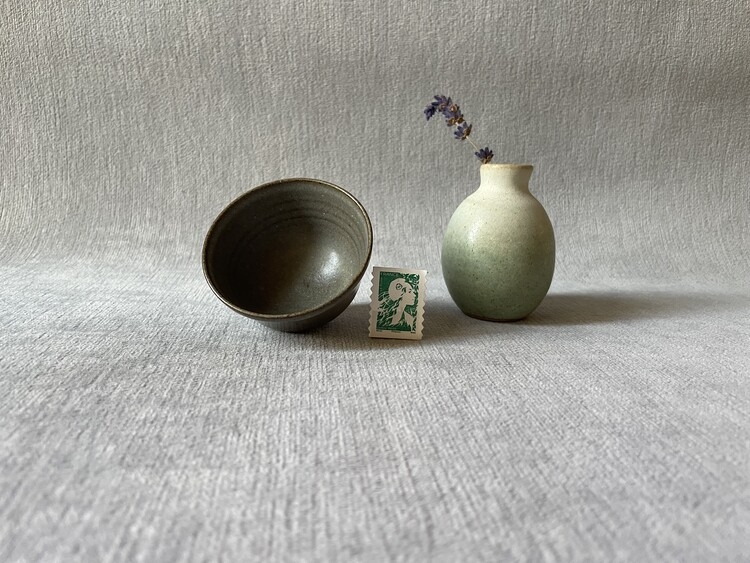
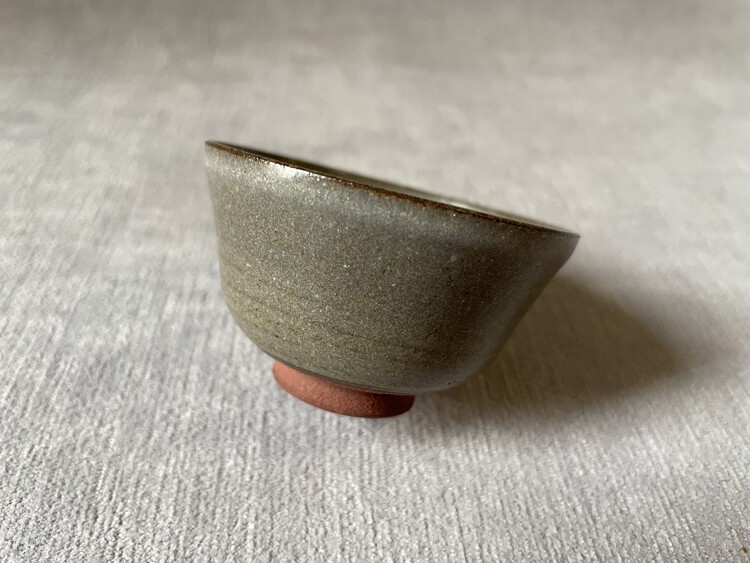
modifier manon tasse photos

diff --git a/ressources/products/manontasB19_cha-bei-petit-bol-a-the.md b/ressources/products/manontasB19_cha-bei-petit-bol-a-the.md
@@ -1,32 +1,34 @@
 ---
 id: manontasB19
 name:
-    fr: 茶杯 - CháBēi
-    en: 茶杯 - CháBēi
+  fr: 茶杯 - CháBēi
+  en: 茶杯 - CháBēi
 mini_descr:
-    fr: petit bol à thé réalisé par Manon Clouzeau
-    en: small tea bowl made by Manon Clouzeau
+  fr: petit bol à thé réalisé par Manon Clouzeau
+  en: small tea bowl made by Manon Clouzeau
 tags: ['manon-clouzeau']
 description: 
-    fr: >
+  fr: >
       茶杯 - CháBēi en grès, cuisson à 1250°C. Pièce unique.
-    en: >
+  en: >
       茶杯 - Stoneware tea cup, fired at 1250°C. Unique piece.
 photos:
-    - manon_tasse_B19-a.jpg
-    - manon_tasse_B19-b.jpg
+  - manon_tasse_B19-a.jpg
+  - manon_tasse_B19-b.jpg
+  - manon_tasse_B19-c.jpg
+  - manon_tasse_B19-d.jpg
 price: 15.00
 stock: 1
 weight: 42
 shipping_type: colis_base
 shipping_point: 2
 options:
-    fr:
-        dimensions: 6,5cm x 3,5cm
-        capacité: 45ml
-    en:
-        dimensions: 6.5cm x 3.5cm
-        capacity: 45ml
+  fr:
+    dimensions: 6,5cm x 3,5cm
+    capacité: 45ml
+  en:
+    dimensions: 6.5cm x 3.5cm
+    capacity: 45ml
 eleventyComputed:
     title: '{{ tags }} - {{ name }}'
 ---

diff --git a/ressources/products/manontasB20_cha-bei-petit-bol-a-the.md b/ressources/products/manontasB20_cha-bei-petit-bol-a-the.md
@@ -15,6 +15,8 @@ description:
 photos:
   - manon_tasse_B20-a.jpg
   - manon_tasse_B20-b.jpg
+  - manon_tasse_B20-c.jpg
+  - manon_tasse_B20-d.jpg
 price: 15.00
 stock: 1
 weight: 42

diff --git a/ressources/products/manontasB22_cha-bei-petit-bol-a-the.md b/ressources/products/manontasB22_cha-bei-petit-bol-a-the.md
@@ -15,6 +15,8 @@ description:
 photos:
   - manon_tasse_B22-a.jpg
   - manon_tasse_B22-b.jpg
+  - manon_tasse_B22-c.jpg
+  - manon_tasse_B22-d.jpg
 price: 15.00
 stock: 1
 weight: 41

diff --git a/ressources/products/manontasB32_cha-bei-petit-bol-a-the.md b/ressources/products/manontasB32_cha-bei-petit-bol-a-the.md
@@ -15,6 +15,8 @@ description:
 photos:
   - manon_tasse_B32-a.jpg
   - manon_tasse_B32-b.jpg
+  - manon_tasse_B32-c.jpg
+  - manon_tasse_B32-d.jpg
 price: 15.00
 stock: 1
 weight: 44

diff --git a/ressources/products/manontasB34_cha-bei-petit-bol-a-the.md b/ressources/products/manontasB34_cha-bei-petit-bol-a-the.md
@@ -15,6 +15,8 @@ description:
 photos:
   - manon_tasse_B34-a.jpg
   - manon_tasse_B34-b.jpg
+  - manon_tasse_B34-c.jpg
+  - manon_tasse_B34-d.jpg
 price: 15.00
 stock: 1
 weight: 35

diff --git a/ressources/products/manontasB35_cha-bei-petit-bol-a-the.md b/ressources/products/manontasB35_cha-bei-petit-bol-a-the.md
@@ -15,6 +15,8 @@ description:
 photos:
   - manon_tasse_B35-a.jpg
   - manon_tasse_B35-b.jpg
+  - manon_tasse_B35-c.jpg
+  - manon_tasse_B35-d.jpg
 price: 15.00
 stock: 1
 weight: 35

diff --git a/ressources/products/manontasB36_cha-bei-petit-bol-a-the.md b/ressources/products/manontasB36_cha-bei-petit-bol-a-the.md
@@ -15,6 +15,8 @@ description:
 photos:
   - manon_tasse_B36-a.jpg
   - manon_tasse_B36-b.jpg
+  - manon_tasse_B36-c.jpg
+  - manon_tasse_B36-d.jpg
 price: 15.00
 stock: 1
 weight: 35
